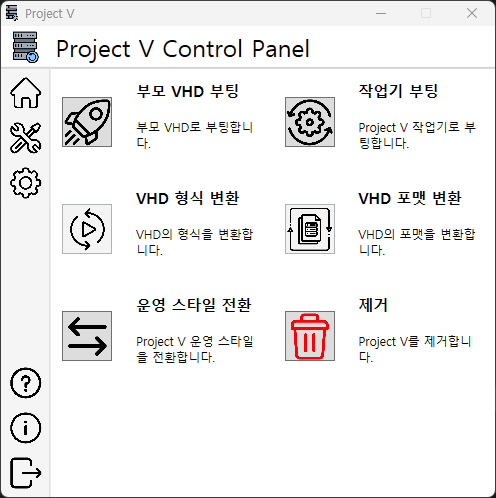
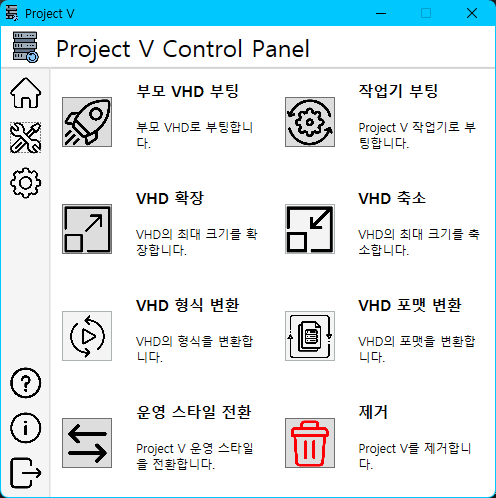
Beta 2 업데이트

diff --git a/README.md b/README.md
@@ -27,30 +27,67 @@
 Project V 제어판(Control.exe)으로 작업을 수행할 수 있습니다. 메뉴는 세 가지로 나뉩니다.
 
 ### 홈
-<p align="center"><img src="./home.png" width="300px" height="300px" title="홈"/></p>
+<p align="center"><img src="./home.png" width="400px" height="400px" title="홈"/></p>
 
 홈 메뉴에서는 가장 자주 사용되는 네 가지 메뉴를 사용할 수 있습니다.
 
-1. 초기화 (차등 스타일에서만)
-1. 병합 (차등 스타일에서만)
-1. 백업
-1. 복원
+#### 백업
+백업 작업은 전체 VHD를 통채로 백업합니다. 전체를 백업하기 때문에 용량이 크고, 시간도 오래 걸립니다.
+
+#### 복원
+복원 작업은 통채로 백업한 VHD를 복원합니다. 전체를 복원하기 때문에 시간이 오래 걸립니다.
+
+#### 초기화
+초기화는 차등 스타일에서만 사용할 수 있으며, 자식 VHD를 깨끗하게 초기화합니다.
+
+#### 병합
+병합은 차등 스타일에서만 사용할 수 있으며, 자식 VHD의 변경 사항을 부모(원본) VHD에 적용합니다.
 
 ### 도구
-<p align="center"><img src="./tools.png" width="300px" height="300px" title="도구"/></p>
+<p align="center"><img src="./tools.png" width="400px" height="400px" title="도구"/></p>
 
 도구 메뉴에서는 기타 여러 가지 기능들에 접근할 수 있습니다.
 
-1. 부모 VHD 부팅
-1. 작업기 부팅
-1. VHD 형식 / 포맷 변환
-1. 운영 스타일 전환
-1. Project V 제거
+#### 부모 VHD 부팅
+차등 스타일에서만 사용할 수 있습니다. 부모(원본) VHD로 부팅합니다. 기준이 되는 부모 VHD의 변경이 발생하기 때문에 초기화 작업도 진행됩니다.
+
+VHDX 포맷은 부모 VHD의 변경이 발생하면 자식 VHD도 새로 만들어야 하기에 초기화 대신 재구축 작업이 진행됩니다.
+
+#### 작업기 부팅
+Project V 작업기로 부팅합니다.
+
+#### VHD 확장
+VHD의 최대 크기를 확장합니다.
+
+파티션은 자동으로 확장되지 않으며, 직접 확장하셔야 합니다.
+
+#### VHD 형식 / 포맷 변환
+VHD의 형식(동적 확장 / 고정 크기)이나 포맷(VHD / VHDX)을 변환합니다.
+
+#### 운영 스타일 전환
+Project V의 운영 스타일을 전환합니다.
+
+#### Project V 제거
+Project V를 제거합니다.
 
 ### 옵션
-<p align="center"><img src="./options.png" width="300px" height="300px" title="옵션"/></p>
+<p align="center"><img src="./options.png" width="400px" height="400px" title="옵션"/></p>
 
 옵션 메뉴에서는 프로그램의 옵션을 조절할 수 있습니다.
+
+백업, 복원, 초기화, 병합 작업 후 재부팅하는 대신 시스템을 종료할 수 있습니다. 이 옵션은 각 작업 메뉴에서도 가능합니다.
+
+또한 부팅 메뉴에서 Project V 작업기 항목을 숨길 수도 있습니다. 그러나 이 경우 문제가 발생하여 윈도우 진입이 불가능해질 경우 작업기로 부팅하기가 어려워집니다.
+
+### 작업기
+<p align="center"><img src="./processor1.png" title="작업기 메뉴"/></p>
+
+작업기로 부팅하게 되면 복원, 초기화 작업을 수행할 수 있습니다. 명령 프롬프트 창을 열어 수동 작업도 가능합니다.
+
+#### 문제 해결사
+<p align="center"><img src="./processor2.png" title="문제 해결사"/></p>
+
+문제 해결사 메뉴에서는 여러 가지 상황에 대한 해결책을 제공합니다. VHD 재구축, 응급 복원, 단순 스타일 전환 작업을 수행할 수 있습니다.
 
 ## 스타일 소개
 ### 단순 스타일
@@ -64,41 +101,6 @@ Project V 제어판(Control.exe)으로 작업을 수행할 수 있습니다. 메
 필요하면 언제든 이 파일을 "초기화"함으로써 빠르게 이전 상태로 되돌아갈 수 있지만 원본과 차이 VHD 두 파일을 사용하기 때문에 그만큼 용량을 더 차지한다는 단점이 있습니다.
 
 차등 스타일은 또 **수동 초기화**와 **자동 초기화**로 나뉘는데 수동 초기화는 말 그대로 필요할 때마다 수동으로 초기화 하는 방식이고 자동 초기화는 부팅할 때 마다 다른 VHD로 부팅하여 자동으로 다른 VHD를 초기화하는 방식입니다.
-
-## 작업 소개
-### 백업
-백업 작업은 전체 VHD를 통채로 백업합니다. 전체를 백업하기 때문에 용량이 크고, 시간도 오래 걸립니다.
-
-### 복원
-복원 작업은 통채로 백업한 VHD를 복원합니다. 전체를 복원하기 때문에 시간이 오래 걸립니다.
-
-### 초기화
-초기화는 차등 스타일에서만 사용할 수 있으며, 자식 VHD를 깨끗하게 초기화합니다.
-
-### 병합
-병합은 차등 스타일에서만 사용할 수 있으며, 자식 VHD의 변경 사항을 부모(원본) VHD에 적용합니다.
-
-### 부모 VHD 부팅
-차등 스타일에서만 사용할 수 있습니다. 부모(원본) VHD로 부팅합니다. 기준이 되는 부모 VHD의 변경이 발생하기 때문에 초기화 작업도 진행됩니다.
-
-VHDX 포맷은 부모 VHD의 변경이 발생하면 자식 VHD도 새로 만들어야 하기에 초기화 대신 재구축 작업이 진행됩니다.
-
-### 작업기 부팅
-Project V 작업기로 부팅합니다.
-
-### VHD 형식 / 포맷 변환
-VHD의 형식(동적 확장 / 고정 크기)이나 포맷(VHD / VHDX)을 변환합니다.
-
-### 운영 스타일 전환
-Project V의 운영 스타일을 전환합니다.
-
-### Project V 제거
-Project V를 제거합니다.
-
-## 옵션
-백업, 복원, 초기화, 병합 작업 후 재부팅하는 대신 시스템을 종료할 수 있습니다. 이 옵션은 각 작업 메뉴에서도 가능합니다.
-
-또한 부팅 메뉴에서 Project V 작업기 항목을 숨길 수도 있습니다. 그러나 이 경우 문제가 발생하여 윈도우 진입이 불가능해질 경우 작업기로 부팅하기가 어려워집니다.
 
 ## 버그 제보하기
 버그는 [이메일](mailto:na1307@outlook.kr)로 제보하거나 [GitHub 이슈](https://github.com/na1307/ProjectV/issues)에서 제보해 주시기 바랍니다.

diff --git a/CHANGELOG.md b/CHANGELOG.md
@@ -1,4 +1,10 @@
 # 체인지로그
 
+## Beta 2 (2022-09-27)
+1. 제거가 제대로 안되는 문제 수정
+1. VHD 확장 추가
+1. 문제 해결사 추가
+1. 제어판은 이제 하나만 실행됨
+
 ## Beta (2022-09-16)
 1. 최초 릴리스.
